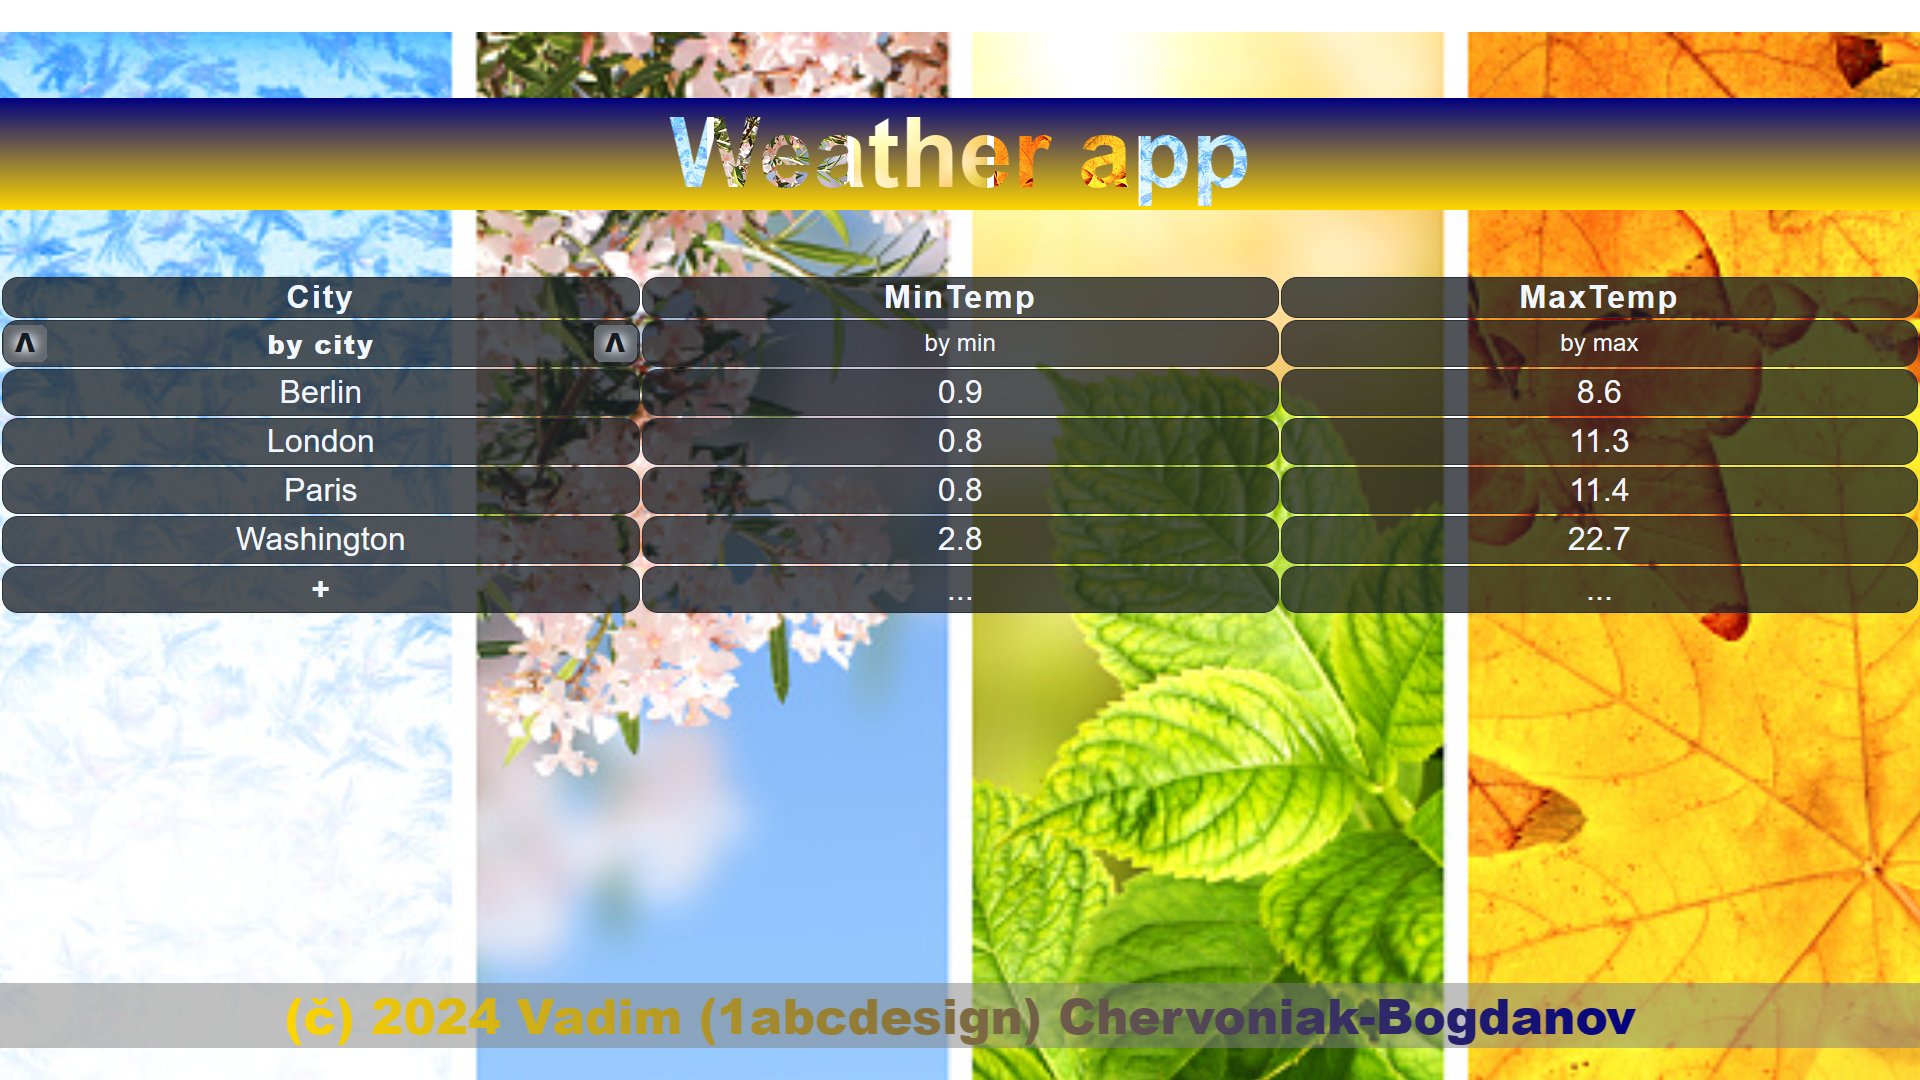
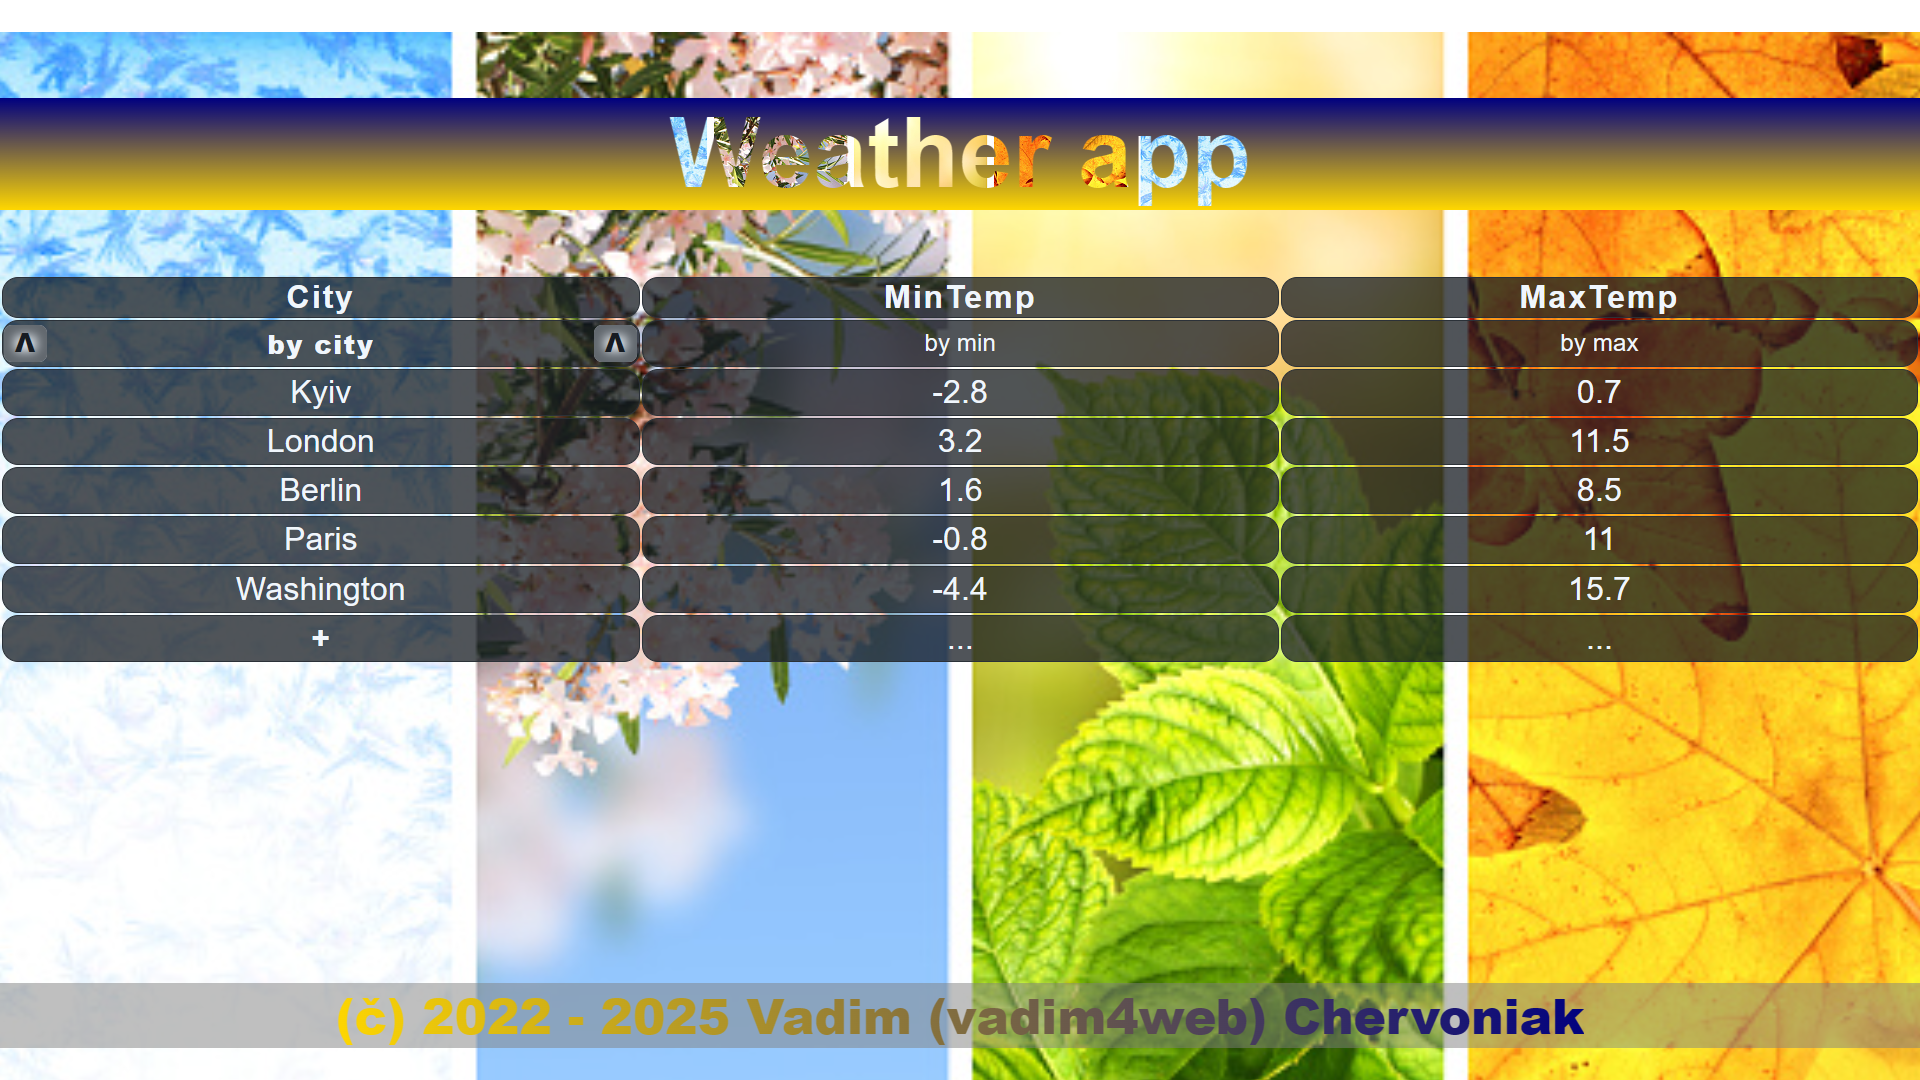
1abcdesign -> vadim4web

diff --git a/dist/index.html b/dist/index.html
@@ -1,1 +1,1 @@
-<!doctype html><html lang=""><head><meta charset="utf-8"><meta http-equiv="X-UA-Compatible" content="IE=edge"><meta name="viewport" content="width=device-width,initial-scale=1"><link rel="icon" href="/vue-weather-app/favicon.ico"><title>vue-weather-app</title><script defer="defer" src="/vue-weather-app/js/chunk-vendors.db74f28d.js"></script><script defer="defer" src="/vue-weather-app/js/app.8f5923a6.js"></script><link href="/vue-weather-app/css/app.3f4cb150.css" rel="stylesheet"></head><body><noscript><strong>We're sorry but vue-weather-app doesn't work properly without JavaScript enabled. Please enable it to continue.</strong></noscript><div id="app"></div></body></html>
+<!doctype html><html lang=""><head><meta charset="utf-8"><meta http-equiv="X-UA-Compatible" content="IE=edge"><meta name="viewport" content="width=device-width,initial-scale=1"><link rel="icon" href="/vue-weather-app/favicon.ico"><title>vue-weather-app</title><script defer="defer" src="/vue-weather-app/js/chunk-vendors.db74f28d.js"></script><script defer="defer" src="/vue-weather-app/js/app.ee1efdf4.js"></script><link href="/vue-weather-app/css/app.97816af6.css" rel="stylesheet"></head><body><noscript><strong>We're sorry but vue-weather-app doesn't work properly without JavaScript enabled. Please enable it to continue.</strong></noscript><div id="app"></div></body></html>

diff --git a/src/assets/data.js b/src/assets/data.js
@@ -1,24 +1,24 @@
 export default {
     geo: [
         {
-            city: 'Kyiv',
-            lat: 50.45,
-            lon: 30.52
-        },
-        {
             city: 'Berlin',
             lat: 52.52,
             lon: 13.41,
         },
         {
-            city: 'Paris',
-            lat: 48.85,
-            lon: 2.35,
+            city: 'Kyiv',
+            lat: 50.45,
+            lon: 30.52
         },
         {
             city: 'London',
             lat: 51.51,
             lon: -0.13,
+        },
+        {
+            city: 'Paris',
+            lat: 48.85,
+            lon: 2.35,
         },
         {
             city: 'Washington',
